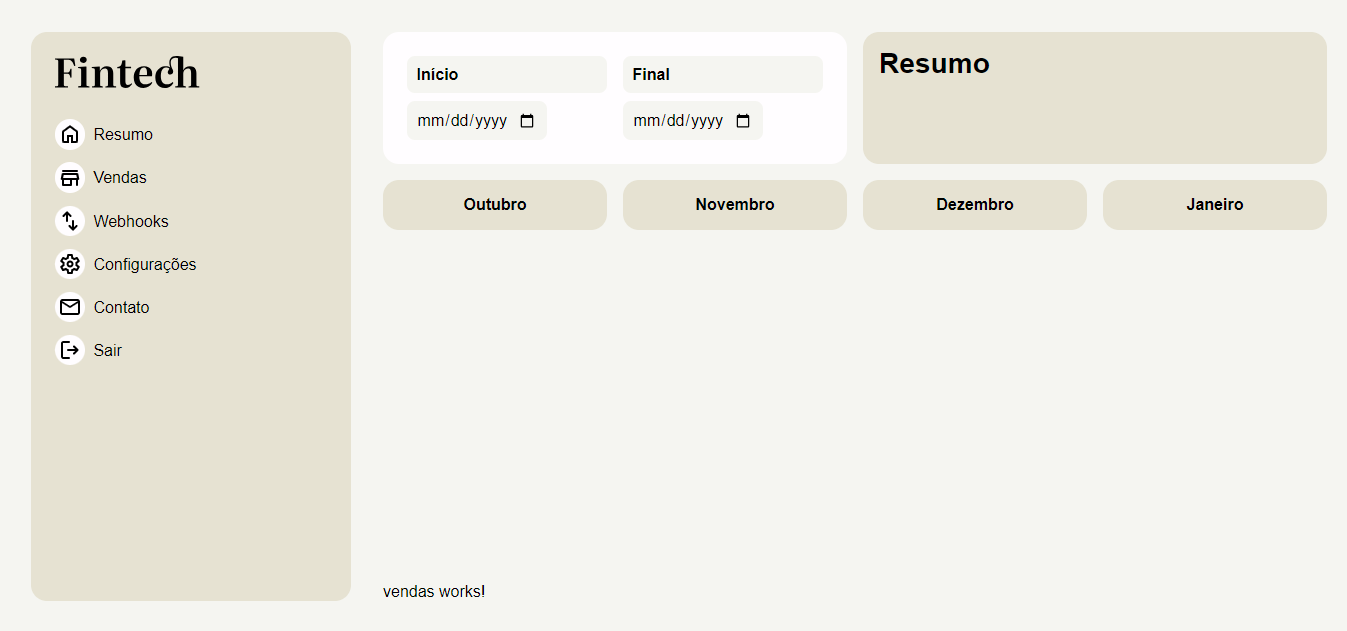
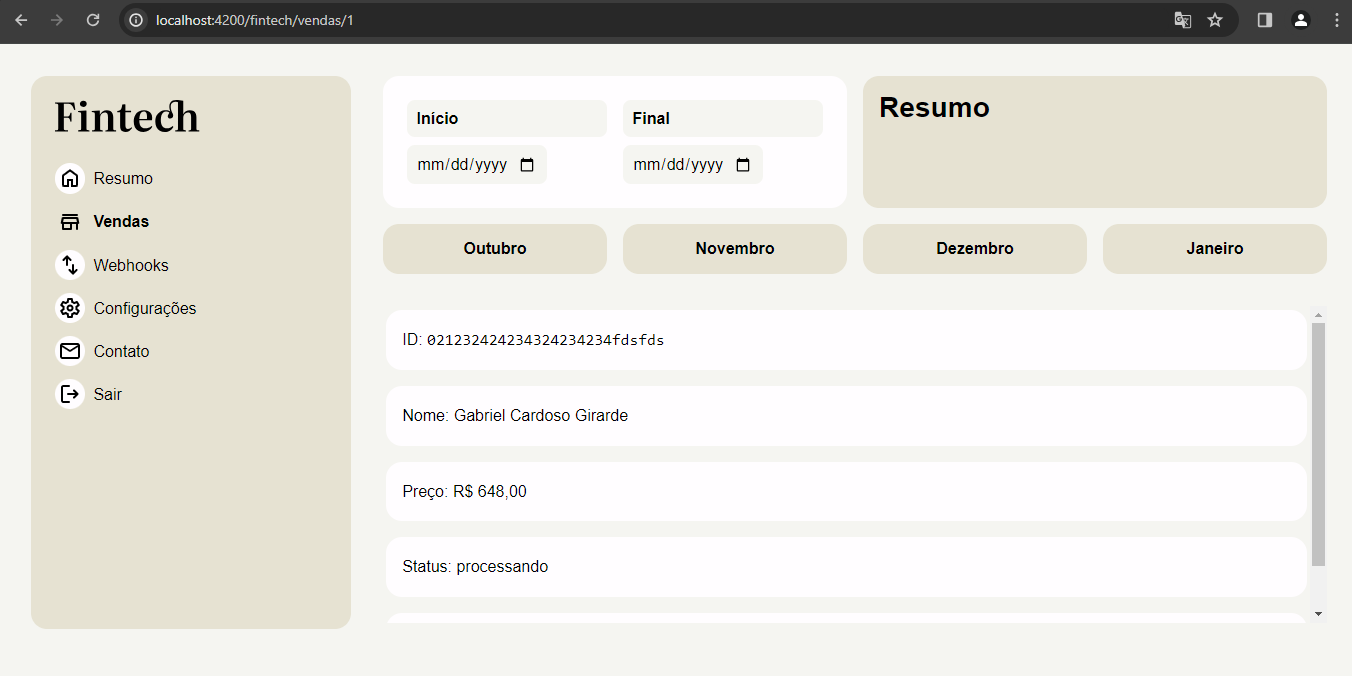
Adição da página para pegar 1 venda com scroll

diff --git a/src/app/modules/fintech/fintech-routing.module.ts b/src/app/modules/fintech/fintech-routing.module.ts
@@ -4,6 +4,7 @@ import { HomeComponent } from './pages/home/home.component';
 import { VendasComponent } from './pages/vendas/vendas.component';
 import { ResumoComponent } from './pages/resumo/resumo.component';
 import { NotFoundComponent } from './pages/not-found/not-found.component';
+import { VendaComponent } from './pages/venda/venda.component';
 
 const routes: Routes = [
   {
@@ -18,6 +19,10 @@ const routes: Routes = [
         path: 'vendas',
         component: VendasComponent,
       },
+      {
+        path: 'vendas/:id',
+        component: VendaComponent,
+      }
     ],
   },
   {

diff --git a/src/app/modules/fintech/pages/vendas/vendas.component.html b/src/app/modules/fintech/pages/vendas/vendas.component.html
@@ -2,21 +2,21 @@
   <li class="venda-item">
     <section>
       <h1>1323sdsds423dsdssds234232</h1>
-      <p>Diogo</p>
+      <p>Gabriel Cardoso Girarde</p>
     </section>
     <span>R$ 645.00</span>
   </li>
   <li class="venda-item">
     <section>
       <h1>1323sdsds423dsdssds234232</h1>
-      <p>Diogo</p>
+      <p>Gabriel Cardoso Girarde</p>
     </section>
     <span>R$ 645.00</span>
   </li>
   <li class="venda-item">
     <section>
       <h1>1323sdsds423dsdssds234232</h1>
-      <p>Diogo</p>
+      <p>Gabriel Cardoso Girarde</p>
     </section>
     <span>R$ 645.00</span>
   </li>

diff --git a/src/app/modules/fintech/pages/home/home.component.scss b/src/app/modules/fintech/pages/home/home.component.scss
@@ -1,18 +1,18 @@
 :host {
-  display: grid;
-  grid-template-columns: minmax(50px, 320px) 1fr;
-  padding: 2rem;
-  gap: 2rem;
-  height: 100%;
-
-  section {
-    display: flex;
-    flex-direction: column;
-    gap: 1rem;
-    header {
+  .home {
+    display: grid;
+    grid-template-columns: minmax(50px, 320px) 1fr;
+    padding: 2rem;
+    gap: 2rem;
+    height: 100%;
+    section {
       display: flex;
+      flex-direction: column;
       gap: 1rem;
+      header {
+        display: flex;
+        gap: 1rem;
+      }
     }
-
   }
 }

diff --git a/src/app/modules/fintech/pages/venda/venda.component.scss b/src/app/modules/fintech/pages/venda/venda.component.scss
@@ -1,0 +1,27 @@
+:host {
+
+  .scroll {
+    flex: 1;
+    max-height: 50vh;
+    overflow: hidden;
+    overflow-y: auto;
+    padding: 0.2rem;
+  }
+
+  .venda {
+    display: flex;
+    flex-direction: column;
+    gap: 1rem;
+
+    .venda-id {
+      font-family: monospace;
+      font-size: 1rem;
+    }
+
+    li {
+      background-color: var(--third);
+      padding: 1.3rem 1rem;
+      border-radius: 1rem;
+    }
+  }
+}

diff --git a/src/app/modules/fintech/pages/home/home.component.html b/src/app/modules/fintech/pages/home/home.component.html
@@ -1,9 +1,11 @@
-<app-sidenav/>
-<section>
-  <header>
-    <app-date-range/>
-    <app-title/>
-  </header>
-  <app-months/>
-  <router-outlet/>
-</section>
+<div class="home">
+  <app-sidenav/>
+  <section>
+    <header>
+      <app-date-range/>
+      <app-title/>
+    </header>
+    <app-months/>
+    <router-outlet/>
+  </section>
+</div>

diff --git a/src/app/modules/fintech/pages/venda/venda.component.html b/src/app/modules/fintech/pages/venda/venda.component.html
@@ -1,1 +1,9 @@
-<p>venda works!</p>
+<div class="scroll">
+  <ul class="venda">
+    <li>ID: <span class="venda-id">021232424234324234234fdsfds</span></li>
+    <li>Nome: Gabriel Cardoso Girarde</li>
+    <li>Preço: R$ 648,00</li>
+    <li>Status: processando</li>
+    <li>Pagamento: boleto</li>
+  </ul>
+</div>

diff --git a/src/sass/base/_reset.scss b/src/sass/base/_reset.scss
@@ -11,3 +11,8 @@ html, body {
   height: 100%;
   background-color: var(--first);
 }
+
+body {
+  padding-bottom: 1rem;
+}
+
